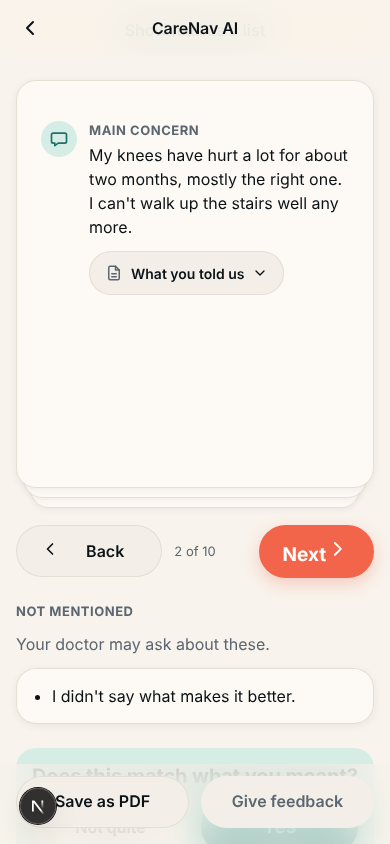
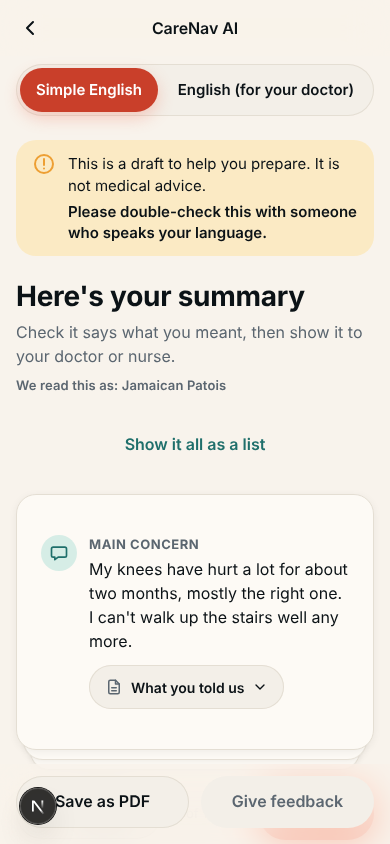
CardDeck: each card fits its own content (no padded-out space)
Cards were stretched to the tallest card's height, leaving large empty
space under short sections. The top card now sizes to its content
(still capped, long ones scroll inside); the cards underneath take its
height via a ResizeObserver so the stack stays tidy and the controls sit
right below. Gesture, reduced-motion and 200% text checks re-run.

Claude-Session: https://claude.ai/code/session_017wctEGr3TRyxnHZakYKSiq

diff --git a/src/components/ui/CardDeck.tsx b/src/components/ui/CardDeck.tsx
@@ -103,6 +103,19 @@ export function CardDeck({ cards, label, labels }: CardDeckProps) {
     if (frame.current !== null) cancelAnimationFrame(frame.current);
   }, []);
 
+  // The top card fits its own content; the cards underneath take its height, so the stack stays tidy
+  // and the controls sit right below it (no empty space padded out to the tallest card).
+  const observer = useRef<ResizeObserver | null>(null);
+  const measureCurrent = useCallback((el: HTMLElement | null) => {
+    observer.current?.disconnect();
+    if (!el) return;
+    const apply = () => viewport.current?.style.setProperty("--deck-card-height", `${el.offsetHeight}px`);
+    apply();
+    observer.current = new ResizeObserver(apply);
+    observer.current.observe(el);
+  }, []);
+  useEffect(() => () => observer.current?.disconnect(), []);
+
   function width(): number {
     return viewport.current?.clientWidth || 1;
   }
@@ -205,6 +218,7 @@ export function CardDeck({ cards, label, labels }: CardDeckProps) {
           return (
             <article
               key={card.id}
+              ref={current ? measureCurrent : undefined}
               className={styles.card}
               style={style}
               data-current={current || undefined}

diff --git a/src/components/ui/CardDeck.module.css b/src/components/ui/CardDeck.module.css
@@ -17,7 +17,8 @@
 
 .card {
   grid-area: 1 / 1;
-  /* Cards stretch to the tallest card (they share one grid cell), capped so long ones scroll inside. */
+  /* The top card fits its content (capped, so long ones scroll inside); see .card:not([data-current]). */
+  align-self: start;
   max-height: min(62svh, 34rem);
   min-height: 0;
   display: flex;
@@ -34,6 +35,9 @@
 
 .card:not([data-current]) {
   pointer-events: none;
+  /* Cards underneath match the top card's height, so they only peek out by the stack offset. */
+  height: var(--deck-card-height, auto);
+  overflow: hidden;
 }
 
 .viewport[data-dragging] .body {
